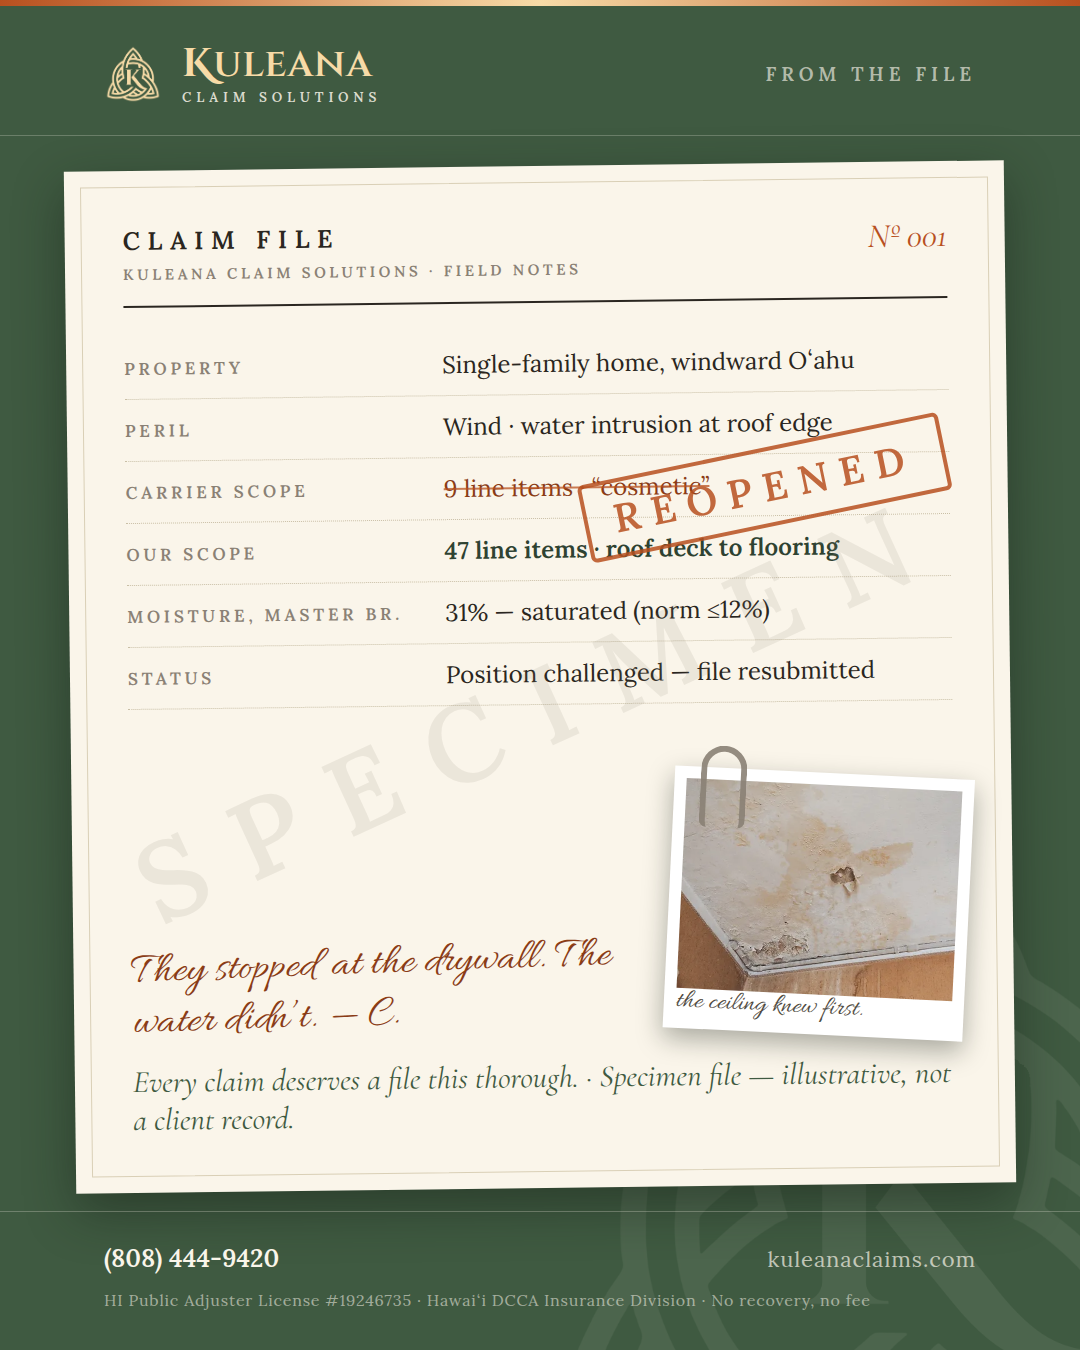
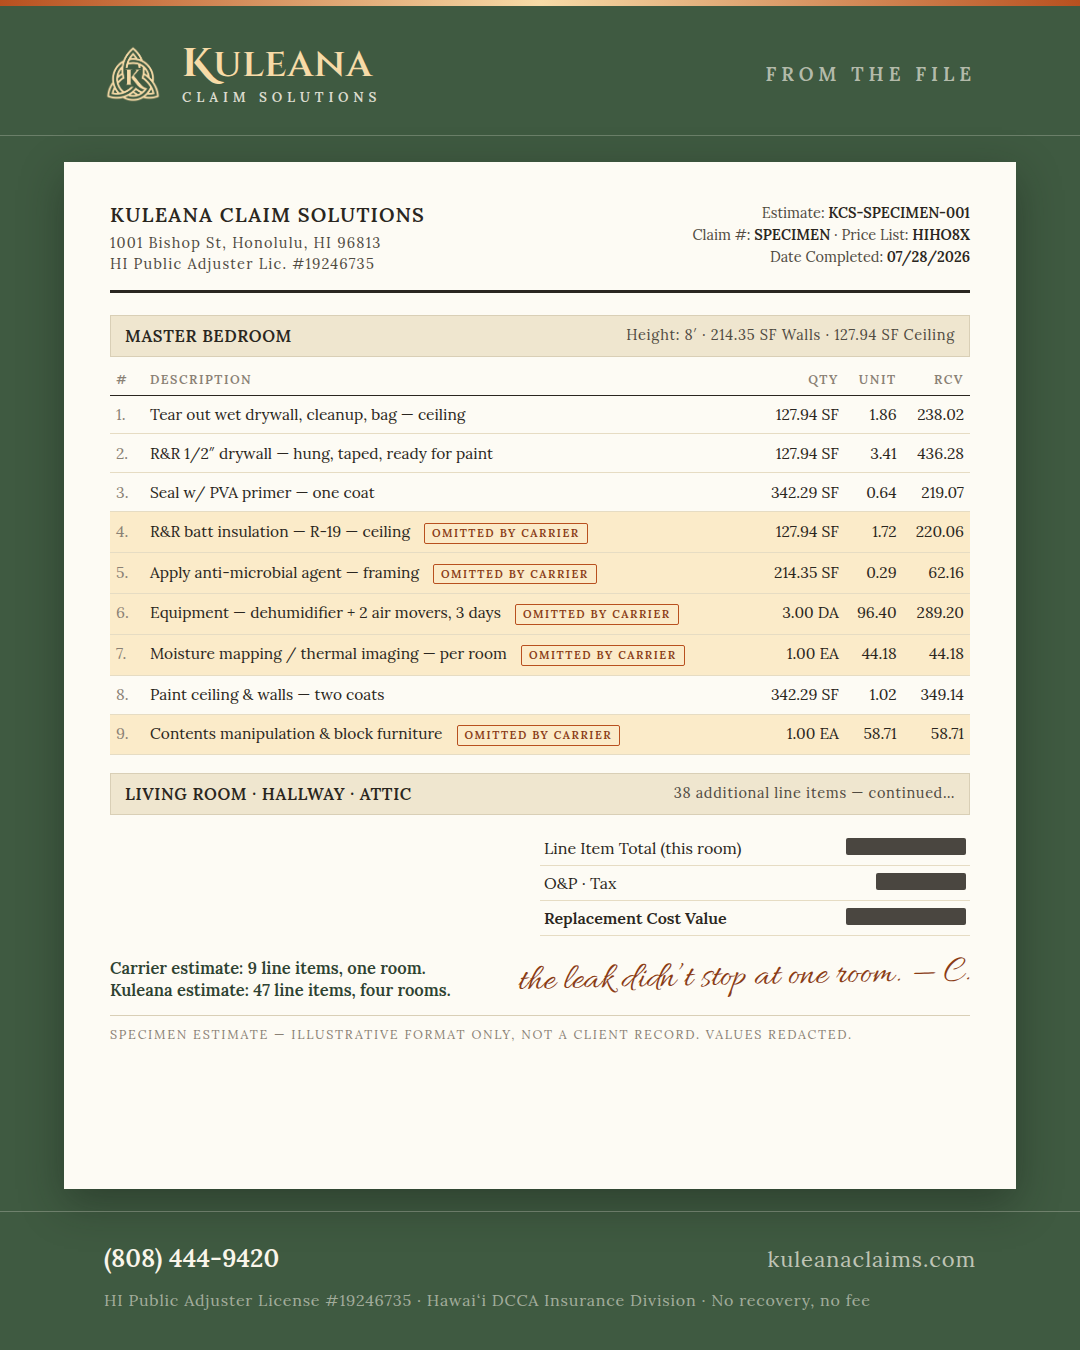
Redesign 'From the File' as clean Xactimate-style estimate
Line-item table with QTY/UNIT/RCV columns, room headers, omitted-by-
carrier highlights, redacted totals; removed the layered watermarks,
stamp, and polaroid per feedback.

Claude-Session: https://claude.ai/code/session_012ermQFeXKetnBLvQfiukPr

Changed region(s): [[0.0611, 0.0933, 0.9472, 0.9022], [0.7333, 0.8711, 0.9472, 0.9022], [0.6417, 0.1556, 0.6722, 0.1867]]

diff --git a/instagram/kuleana-instagram-posts.html b/instagram/kuleana-instagram-posts.html
@@ -317,34 +317,37 @@ body { background: #E9E2D2; display: flex; flex-direction: column; align-items: 
   background-color: #FAF5EA; opacity: 0.6; z-index: 2;
   filter: drop-shadow(0 1px 4px rgba(42,38,32,0.5)); }
 
-/* ================= POST 30: CLAIM FILE ARTIFACT ================= */
-.file-desk { flex: 1; min-height: 0; position: relative; padding: 30px 70px 24px; display: flex; z-index: 1; }
-.file-paper { position: relative; flex: 1; background: #FAF5EA; transform: rotate(-0.7deg);
-  box-shadow: 0 18px 50px rgba(20,28,21,0.45); padding: 54px 58px; display: flex; flex-direction: column; }
-.file-paper::before { content: ""; position: absolute; inset: 16px; border: 1px solid #D9CFB6; pointer-events: none; }
-.file-head { display: flex; justify-content: space-between; align-items: flex-start; padding-bottom: 22px; border-bottom: 2px solid #2A2620; }
-.file-title { font-family: 'Lora', Georgia, serif; font-weight: 700; font-size: 25px; letter-spacing: 0.3em; color: #2A2620; }
-.file-title small { display: block; font-weight: 600; font-size: 15px; letter-spacing: 0.24em; color: #8A8175; margin-top: 8px; }
-.file-no { font-family: 'Cormorant Garamond', Georgia, serif; font-style: italic; font-size: 34px; color: #B8501F; }
-.file-rows { margin-top: 30px; }
-.file-row { display: flex; gap: 18px; padding: 15px 0; border-bottom: 1px dotted #C9BFa6; font-family: 'Lora', Georgia, serif; font-size: 24px; color: #2A2620; }
-.file-row b { flex: none; width: 300px; font-weight: 600; font-size: 17px; letter-spacing: 0.22em; text-transform: uppercase; color: #8A8175; padding-top: 5px; }
-.file-row .bad { color: #8A3C16; text-decoration: line-through; text-decoration-thickness: 2px; text-decoration-color: rgba(184,80,31,0.75); }
-.file-row .good { font-weight: 600; color: #2E4231; }
-.stamp { position: absolute; right: 60px; top: 285px; transform: rotate(-11deg);
-  border: 4px solid #B8501F; color: #B8501F; padding: 10px 26px; border-radius: 6px;
-  font-family: 'Lora', Georgia, serif; font-weight: 700; font-size: 40px; letter-spacing: 0.28em; opacity: 0.85; }
-.specimen { position: absolute; left: 0; right: 0; top: 46%; text-align: center; transform: rotate(-24deg);
-  font-family: 'Lora', Georgia, serif; font-weight: 700; font-size: 110px; letter-spacing: 0.34em;
-  color: rgba(138,129,117,0.13); pointer-events: none; }
-.polaroid { position: absolute; right: 44px; bottom: 150px; width: 300px; background: #fff;
-  padding: 12px 12px 40px; transform: rotate(3.5deg); box-shadow: 0 10px 26px rgba(20,28,21,0.35); }
-.polaroid img { width: 100%; height: 210px; object-fit: cover; display: block; }
-.polaroid i { position: absolute; left: 12px; bottom: 10px; font-family: 'Allura', cursive; font-style: normal; font-size: 27px; color: #4F4A41; }
-.clip { position: absolute; top: -22px; left: 26px; width: 46px; height: 82px;
-  border: 6px solid #8A8175; border-radius: 24px 24px 8px 8px; border-bottom: none; opacity: 0.9; }
-.file-note { margin-top: auto; max-width: 520px; font-family: 'Allura', cursive; font-size: 44px; line-height: 1.15; color: #8A3C16; transform: rotate(-1.4deg); }
-.file-bottom { margin-top: 18px; font-family: 'Cormorant Garamond', Georgia, serif; font-style: italic; font-size: 31px; color: #3F5A41; }
+
+/* ================= POST 30 v2: XACTIMATE-STYLE ESTIMATE ================= */
+.est-desk { flex: 1; min-height: 0; position: relative; padding: 26px 64px 22px; display: flex; z-index: 1; }
+.est-paper { position: relative; flex: 1; background: #FDFBF4; box-shadow: 0 14px 40px rgba(20,28,21,0.4);
+  padding: 40px 46px 30px; display: flex; flex-direction: column; font-family: 'Lora', Georgia, serif; color: #2A2620; }
+.est-top { display: flex; justify-content: space-between; border-bottom: 3px solid #2A2620; padding-bottom: 16px; }
+.est-co { font-weight: 700; font-size: 20px; letter-spacing: 0.06em; }
+.est-co small { display: block; font-weight: 400; font-size: 14.5px; color: #4F4A41; margin-top: 5px; line-height: 1.45; }
+.est-meta { text-align: right; font-size: 14.5px; line-height: 1.55; color: #4F4A41; }
+.est-meta b { color: #2A2620; }
+.room { margin-top: 22px; background: #EFE6CF; border: 1px solid #D9CFB6; padding: 9px 14px;
+  display: flex; justify-content: space-between; font-weight: 700; font-size: 16.5px; letter-spacing: 0.04em; }
+.room span { font-weight: 400; color: #4F4A41; font-size: 14.5px; }
+table.est { width: 100%; border-collapse: collapse; margin-top: 6px; font-size: 15.5px; }
+table.est th { text-align: left; font-size: 12.5px; letter-spacing: 0.12em; color: #8A8175; font-weight: 600;
+  border-bottom: 1.5px solid #2A2620; padding: 8px 6px; }
+table.est th.r, table.est td.r { text-align: right; }
+table.est td { padding: 8.5px 6px; border-bottom: 1px solid #E6DCC3; vertical-align: top; line-height: 1.35; }
+table.est td.n { color: #8A8175; width: 34px; }
+tr.miss td { background: #FBEBC9; }
+td .tag { display: inline-block; margin-left: 10px; font-size: 11px; font-weight: 700; letter-spacing: 0.14em;
+  color: #8A3C16; border: 1px solid #B8501F; padding: 2px 7px; border-radius: 2px; white-space: nowrap; }
+.est-tot { margin-top: 16px; margin-left: auto; width: 430px; font-size: 16px; }
+.est-tot .trow { display: flex; justify-content: space-between; padding: 7px 4px; border-bottom: 1px solid #E6DCC3; }
+.est-tot .trow b { font-weight: 700; }
+.redact { display: inline-block; width: 120px; height: 17px; background: #2A2620; opacity: 0.85; border-radius: 2px; }
+.est-note { margin-top: 18px; display: flex; justify-content: space-between; align-items: flex-end; gap: 30px; }
+.est-summary { font-size: 16.5px; color: #2E4231; font-weight: 600; }
+.est-hand { font-family: 'Allura', cursive; font-size: 37px; color: #8A3C16; transform: rotate(-1.2deg); white-space: nowrap; }
+.est-spec { margin-top: 14px; border-top: 1px solid #D9CFB6; padding-top: 10px;
+  font-size: 12.5px; letter-spacing: 0.14em; text-transform: uppercase; color: #8A8175; }
 </style>
 </head>
 <body>
@@ -1278,12 +1281,12 @@ POST 29 · Layout: policyholder tip
   </footer>
 </div>
 
+
 <!-- ============================================================
-POST 30 · Signature original — the claim file artifact
+POST 30 · Signature — Xactimate-style estimate (v2)
 ============================================================ -->
 <div class="post post--green" data-canvas-width="1080" data-canvas-height="1350">
   <div class="goldline"></div>
-  <span class="kmark wmark"></span>
   <header class="head">
     <div class="brandlock">
       <span class="kmark"></span>
@@ -1291,25 +1294,36 @@ POST 30 · Signature original — the claim file artifact
     </div>
     <div class="head-right">From the File</div>
   </header>
-  <div class="file-desk">
-    <div class="file-paper">
-      <div class="specimen">SPECIMEN</div>
-      <div class="file-head">
-        <div class="file-title">CLAIM FILE<small>KULEANA CLAIM SOLUTIONS &middot; FIELD NOTES</small></div>
-        <div class="file-no">N&ordm; 001</div>
+  <div class="est-desk">
+    <div class="est-paper">
+      <div class="est-top">
+        <div class="est-co">KULEANA CLAIM SOLUTIONS<small>1001 Bishop St, Honolulu, HI 96813<br/>HI Public Adjuster Lic. #19246735</small></div>
+        <div class="est-meta">Estimate: <b>KCS-SPECIMEN-001</b><br/>Claim #: <b>SPECIMEN</b> &middot; Price List: <b>HIHO&#8203;8X</b><br/>Date Completed: <b>07/28/2026</b></div>
       </div>
-      <div class="file-rows">
-        <div class="file-row"><b>Property</b><span>Single-family home, windward O&#699;ahu</span></div>
-        <div class="file-row"><b>Peril</b><span>Wind &middot; water intrusion at roof edge</span></div>
-        <div class="file-row"><b>Carrier scope</b><span class="bad">9 line items &middot; &ldquo;cosmetic&rdquo;</span></div>
-        <div class="file-row"><b>Our scope</b><span class="good">47 line items &middot; roof deck to flooring</span></div>
-        <div class="file-row"><b>Moisture, master br.</b><span>31% &mdash; saturated (norm &le;12%)</span></div>
-        <div class="file-row"><b>Status</b><span>Position challenged &mdash; file resubmitted</span></div>
+      <div class="room">MASTER BEDROOM <span>Height: 8&prime; &middot; 214.35 SF Walls &middot; 127.94 SF Ceiling</span></div>
+      <table class="est">
+        <tr><th>#</th><th>DESCRIPTION</th><th class="r">QTY</th><th class="r">UNIT</th><th class="r">RCV</th></tr>
+        <tr><td class="n">1.</td><td>Tear out wet drywall, cleanup, bag &mdash; ceiling</td><td class="r">127.94 SF</td><td class="r">1.86</td><td class="r">238.02</td></tr>
+        <tr><td class="n">2.</td><td>R&amp;R 1/2&Prime; drywall &mdash; hung, taped, ready for paint</td><td class="r">127.94 SF</td><td class="r">3.41</td><td class="r">436.28</td></tr>
+        <tr><td class="n">3.</td><td>Seal w/ PVA primer &mdash; one coat</td><td class="r">342.29 SF</td><td class="r">0.64</td><td class="r">219.07</td></tr>
+        <tr class="miss"><td class="n">4.</td><td>R&amp;R batt insulation &mdash; R-19 &mdash; ceiling <span class="tag">OMITTED BY CARRIER</span></td><td class="r">127.94 SF</td><td class="r">1.72</td><td class="r">220.06</td></tr>
+        <tr class="miss"><td class="n">5.</td><td>Apply anti-microbial agent &mdash; framing <span class="tag">OMITTED BY CARRIER</span></td><td class="r">214.35 SF</td><td class="r">0.29</td><td class="r">62.16</td></tr>
+        <tr class="miss"><td class="n">6.</td><td>Equipment &mdash; dehumidifier + 2 air movers, 3 days <span class="tag">OMITTED BY CARRIER</span></td><td class="r">3.00 DA</td><td class="r">96.40</td><td class="r">289.20</td></tr>
+        <tr class="miss"><td class="n">7.</td><td>Moisture mapping / thermal imaging &mdash; per room <span class="tag">OMITTED BY CARRIER</span></td><td class="r">1.00 EA</td><td class="r">44.18</td><td class="r">44.18</td></tr>
+        <tr><td class="n">8.</td><td>Paint ceiling &amp; walls &mdash; two coats</td><td class="r">342.29 SF</td><td class="r">1.02</td><td class="r">349.14</td></tr>
+        <tr class="miss"><td class="n">9.</td><td>Contents manipulation &amp; block furniture <span class="tag">OMITTED BY CARRIER</span></td><td class="r">1.00 EA</td><td class="r">58.71</td><td class="r">58.71</td></tr>
+      </table>
+      <div class="room" style="margin-top: 18px;">LIVING ROOM &middot; HALLWAY &middot; ATTIC <span>38 additional line items &mdash; continued&hellip;</span></div>
+      <div class="est-tot">
+        <div class="trow"><span>Line Item Total (this room)</span><span class="redact"></span></div>
+        <div class="trow"><span>O&amp;P &middot; Tax</span><span class="redact" style="width:90px;"></span></div>
+        <div class="trow"><b>Replacement Cost Value</b><span class="redact"></span></div>
       </div>
-      <div class="stamp">REOPENED</div>
-      <div class="polaroid"><span class="clip"></span><img src="img/library-water-damage.png" alt="ceiling water damage photo"/><i>the ceiling knew first.</i></div>
-      <div class="file-note">They stopped at the drywall. The water didn&rsquo;t. &mdash; C.</div>
-      <div class="file-bottom">Every claim deserves a file this thorough. &middot; Specimen file &mdash; illustrative, not a client record.</div>
+      <div class="est-note">
+        <div class="est-summary">Carrier estimate: 9 line items, one room.<br/>Kuleana estimate: 47 line items, four rooms.</div>
+        <div class="est-hand">the leak didn&rsquo;t stop at one room. &mdash; C.</div>
+      </div>
+      <div class="est-spec">Specimen estimate &mdash; illustrative format only, not a client record. Values redacted.</div>
     </div>
   </div>
   <footer class="foot">

diff --git a/instagram/captions.md b/instagram/captions.md
@@ -336,11 +336,12 @@ real client quote and written permission.
 
 ### 30 · From the File Nº 001 — `posts/30-claim-file.png` (signature series)
 
-Original artifact-style design: a specimen adjuster's claim file with field
-notes, a REOPENED stamp, a paperclipped photo, and a handwritten margin note.
-Marked "SPECIMEN … illustrative, not a client record" on the artwork itself —
-keep that line. This is a repeatable signature series (Nº 002, 003…): each
-edition can teach one real claim lesson in file form.
+Redesigned per Caren's feedback as a clean Xactimate-style estimate page:
+header block, room header with dimensions, line-item table (QTY / UNIT / RCV),
+"OMITTED BY CARRIER" highlighted rows, redacted totals, one handwritten
+accent. Marked "Specimen estimate — illustrative format only, not a client
+record" on the artwork — keep that line. Repeatable signature series
+(Nº 002, 003…): each edition teaches one claim lesson in estimate form.
 
 **Caption:**
 From the file 📁 Carrier scope: 9 line items, "cosmetic." Our documented
